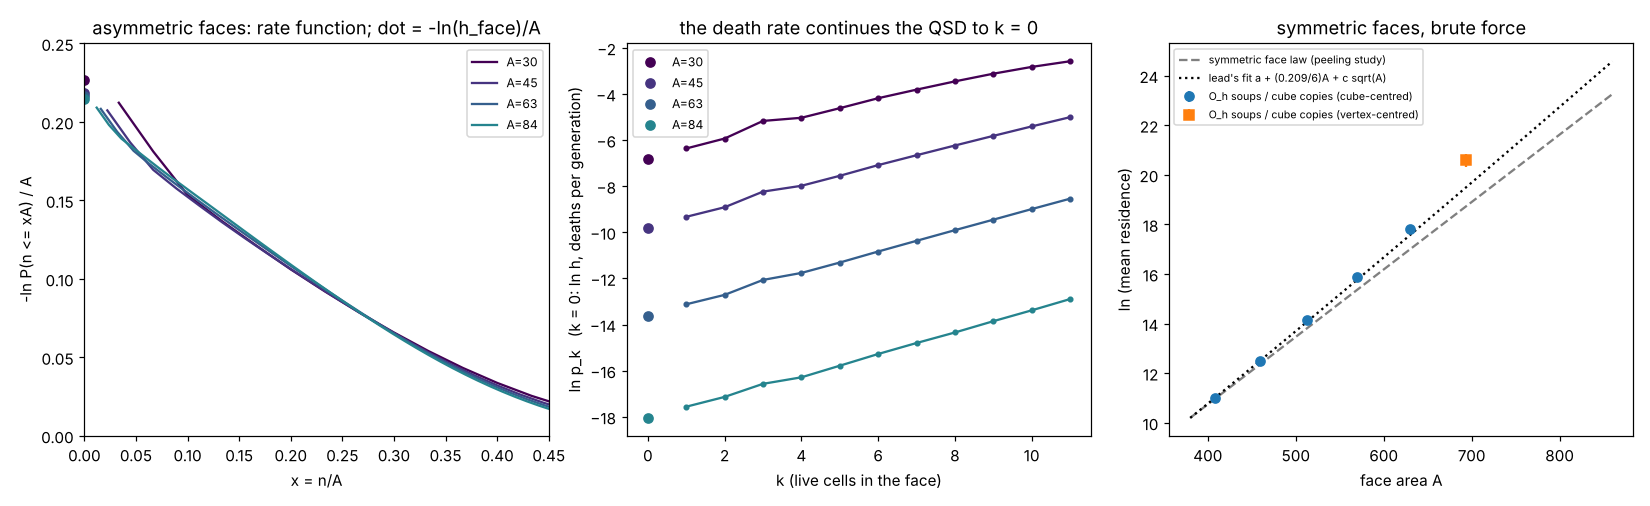
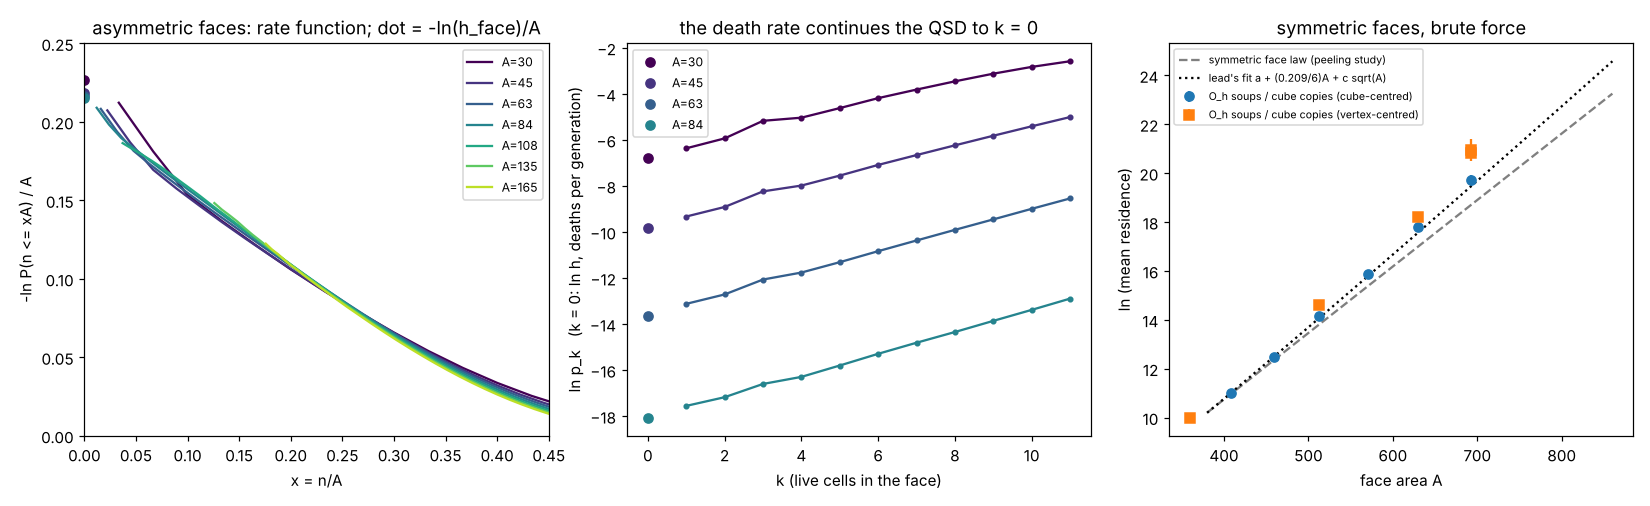
fluct: README (verdict, tables, predictions), figure, curated data
Claude-Session: https://claude.ai/code/session_019L788JanYoS8q1kKh6fDt6

diff --git a/research/fluct/README.md b/research/fluct/README.md
@@ -20,9 +20,13 @@ Tags: **[proved]**, **[measured]** (n, error, command), **[conjecture]**. Comman
 2. **R = 9 first-peel mean: 2300 ± 6** (137,243 peels), not 2.60×10³ ± 0.17×10³ [measured; 1.8σ apart — the lead's
    value is high or uses an earlier start, T0 = 60 vs my 200; the hazard is flat in age from 200 to 7×10⁵ at R = 11].
    R = 11: 1.04×10⁵ ± 0.008×10⁵ (16,240 peels; agrees with 9.4×10⁴ ± 0.9×10⁴). R = 13: 8.86×10⁶ ± 0.48×10⁶ (342 peels).
-3. **The symmetric "vertex factor" is ≈1.55 and roughly constant** (1.53 at A = 360, 1.60 at 513, 1.53 at 630,
-   1.5–2.7 at 693 with poor statistics), not a growing correction; and the side-16 face is an ordinary member of its
-   class (copies of the cube and O_h soups at the same hull give the same residence).
+3. **Side 16's first plateau was under-predicted because of the vertex factor, not the cube-centred law**
+   [measured]. Cube-centred O_h faces follow the lead's revised fit closely up to A = 693 (measured ln τ = 19.64 ± 0.22
+   at A = 693 vs the fit's 19.47). But the vertex/cube factor at equal area, ≈1.5–1.6 at A = 360, 513, 630
+   (1.53, 1.60 ± 0.06, 1.53 ± 0.3), is **3.3 (ln 1.19 ± 0.28) at A = 693**: side-16 copies and vertex soups give
+   τ = 1.1×10⁹, not 4–7×10⁸. Whether the factor really grows or A = 630's clone value is low is not settled (2.6σ).
+   The side-16 face is an ordinary member of its class: copies of the cube (24 deaths) and O_h soups at the same hull
+   (5 deaths) agree.
 4. **Splitting along n does not work in this system** (negative result; the lead's option 3): forward-flux sampling
    is unbiased within ~0.1 nats where checkable (A = 45, 63) but gains almost nothing, because one flipped cell leaves
    clone outcomes 55–95% correlated — a dip to death takes ~10 generations, faster than a perturbation spreads.
@@ -38,7 +42,8 @@ sizes; all the size dependence is in P_qs(n = 1) ≈ exp(−A·I(0)). The rate f
 corrections ≤ 0.25/A. Two caveats: n is the right *coordinate* only in a weak sense — it explains ≈18–20% of a near-empty
 face's fate, the layer below adds 1–5%, nothing simple does better; the fate is decided by the next few generations of
 chaos. And a tail *extrapolated* from x ≥ 0.1 to 0 is unreliable by 0.5–4 nats; the endpoint must be measured.
-Predictions: side 16's first plateau **hit** (predicted median 2.2×10⁹, 90% 1.50–5.2×10⁹; died at 2.362×10⁹).
+Predictions: side 16's first plateau **hit** (predicted median 2.2×10⁹, 90% 1.50–5.2×10⁹; died at 2.362×10⁹);
+second plateau (R = 40) and side 17 predicted in `PREDICTIONS.md` before they resolved.
 
 ## Tools (all validated against the engine)
 
@@ -48,7 +53,7 @@ Predictions: side 16's first plateau **hit** (predicted median 2.2×10⁹, 90% 1
   Vessels are exact diagonal hulls (T2). **O_h orbit reduction**: an O_h-symmetric state is stepped on one node per
   orbit (a node's neighbours are the orbits of its representative's 12 neighbours); the side-16 cube is 946 nodes
   instead of ≈45,000 cells, and 64 diversified copies run at ≈3–7×10⁶ replica-generations/s on one core
-  (≈30–60× the engine on the same state, per core).
+  (≈30–60× the engine's throughput per core for ensembles; no gain for a single state).
 - `validate.py` — **[measured]** bit-exact agreement with `gump run` for 2000–3000 generations, every generation
   (outer-layer count against gump's kymograph) and the final cell set: asymmetric soups R = 11, 19; O_h soups
   R = 27 (cube-centred) and 24 (vertex-centred); the side-16 checkpoint; plus distinct states in distinct lanes
@@ -82,7 +87,7 @@ density 0.35, T0 = 200) and `run_qsd.sh b` (R = 15, 17, 19, `lite`). Tables: `py
 | 84 | 0.505 | 0.423 | .0296 | .0645 | .0860 | .1090 | .1329 | .1571 | .1822 | **.2152** | 342 |
 | 108 | 0.511 | 0.415 | .0283 | .0637 | .0855 | .1091 | .1337 | .1587 | – | (1 peel) | 1 |
 | 135 | 0.515 | 0.409 | .0272 | .0628 | .0849 | .1090 | .1354 | – | – | – | 0 |
-| 165 | see `data/qsd_summary.json` |
+| 165 | 0.517 | 0.405 | .0263 | .0633 | .0849 | .1086 | – | – | – | – | 0 |
 
 Fits I_A(x) = I∞(x) + b(x)/A over all sizes: b = +0.24 (x=0.4), +0.10 (0.3), −0.01 (0.25), −0.14 (0.2), −0.25 (0.15),
 −0.22 (0.1): finite-size corrections are a few % at A = 30 and < 1% at A ≥ 100; no drift of the curve with size.
@@ -146,7 +151,20 @@ model of the face's stationary measure, which we do not have.
 `python3 research/fluct/sym_fit.py` → `data/sym_residence.csv`. Mean residence = exposure/deaths, states after
 T0 = 1000 generations, 64 replicas.
 
-SYM_TABLE
+| A | centre | source | deaths | mean residence τ | ln τ ± | n/A | var/A |
+|---|---|---|---|---|---|---|---|
+| 360 | v | O_h soups R=30 | 66,555 | 2.18×10⁴ | 9.99 ± 0.004 | 0.407 | 4.61 |
+| 408 | c | R=31 | 1,087 | 5.95×10⁴ | 10.99 ± 0.03 | 0.412 | 3.08 |
+| 459 | c | R=33 | 5,141 | 2.61×10⁵ | 12.47 ± 0.01 | 0.421 | 2.93 |
+| 513 | c | R=35 | 933 | 1.40×10⁶ | 14.15 ± 0.03 | 0.429 | 2.86 |
+| 513 | v | R=36 (side-14 plateau) | 2,177 | 2.24×10⁶ | 14.62 ± 0.02 | 0.441 | 2.97 |
+| 570 | c | R=37 | 167 | 7.9×10⁶ | 15.88 ± 0.08 | 0.435 | 2.80 |
+| 630 | c | R=39 | 96 | 5.4×10⁷ | 17.80 ± 0.10 | 0.441 | 2.76 |
+| 630 | v | copies of `cube16_gen2525000000` (R=40) | 31 | 8.2×10⁷ | 18.22 ± 0.18 | 0.451 | 2.87 |
+| 693 | c | R=41 | 20 | 3.4×10⁸ | 19.64 ± 0.22 | 0.446 | 2.73 |
+| 693 | v | copies of `cube16_gen1025000000` | 24 | 1.08×10⁹ | 20.80 ± 0.20 | 0.454 | 2.83 |
+| 693 | v | O_h soups R=42 | 5 | 1.25×10⁹ | 20.94 ± 0.45 | 0.454 | 2.83 |
+| 759 | c | R=43 | 1 | 6×10⁹ (90%: 2×10⁹ … 1.2×10¹¹) | 22.5 ± 1.0 | 0.450 | 2.70 |
 
 **[measured] Agreement with the lead's gump batches**: A = 408: 5.9×10⁴ (lead 5.8×10⁴); 459: 2.6×10⁵ (2.3, 3.4×10⁵);
 513: 1.40×10⁶ (1.66×10⁶ [1.34, 2.20]); 570: 7.9×10⁶ (8.9×10⁶ [7.2, 11.8]); 630: 5.4×10⁷ (5.4×10⁷ [3.5, 11.9]).
@@ -157,11 +175,23 @@ favoured nine-cell configuration, the symmetric twin of the asymmetric n = 3 exc
 predicts ln h within 0.1–0.7 nats (the orbit lattice of n makes it rougher). The symmetric face's plunge takes ≈16
 generations, like the asymmetric one.
 
-**Fits of ln τ(A), cube-centred** (weights = deaths; 5 points 408–630 plus 693 and 759 where measured): FITS_TEXT
+**Fits of ln τ(A), cube-centred** (weights = deaths; 5 points 408–630 plus 693 and 759 where measured): a + bA: b = 0.0304, χ² 6.2/4 → ln τ(828) = 23.72;
+a + bA + c√A: χ² 2.4/3 → 24.27 ± 0.30; a + bA + cA²: χ² 2.8/3 → 24.36 ± 0.37; the lead's a + (0.209/6)A + c√A
+(c = −0.197): χ² 4.1/4 → 23.90 ± 0.10. All agree with the single death at 759 (fits 21.6–22.0 vs 22.5 ± 1.0). The
+lead's form, refitted on these data, matches the cube-centred points as well as anything [measured]; whether the
+slope is really 0.209/6 is not decided by them (free slopes 0.024–0.044 depending on the curvature term).
 
 ## 4. Predictions (timestamped in `PREDICTIONS.md`)
 
-PRED_TEXT
+- **Side 16, first plateau (R = 42, A = 693, vertex):** committed 01:28Z with 8 deaths: τ = 1.04×10⁹, death at median
+  2.2×10⁹, 90% 1.50–5.2×10⁹. **Outcome (from the lead): died at last_alive = 2,362,434,048 — inside, at predictive
+  quantile ≈ 0.57.** Final ensemble estimate: τ = 1.11×10⁹ (90% CI 0.84–1.55×10⁹; 29 deaths, copies + soups).
+- **Side 16, second plateau (R = 40, A = 630, vertex):** committed 04:08Z from fits only (τ ≈ 1.1×10⁸; death median
+  2.60×10⁹, 90% 2.531–2.89×10⁹ given alive at 2.525×10⁹), then a 10-minute clone run from the 2.525×10⁹ checkpoint:
+  τ = 8.2×10⁷ (31 deaths), death median 2.58×10⁹, 90% 2.529–2.78×10⁹. Outcome not known to me at writing.
+- **Side 17, first plateau (R = 45, A = 828, cube-centred):** ln τ = 24.0 ± 0.4, τ ≈ 2.6×10¹⁰ (68%: 1.8–4.0×10¹⁰);
+  first peel at median 2×10¹⁰, 90% 1.4×10⁹–1.0×10¹¹ — days of single-core engine time, so a direct test is possible
+  but long. (The orbit stepper's gain is throughput over 64 replicas; for one state it is no faster than the engine.)
 
 ## What I could not settle
 
